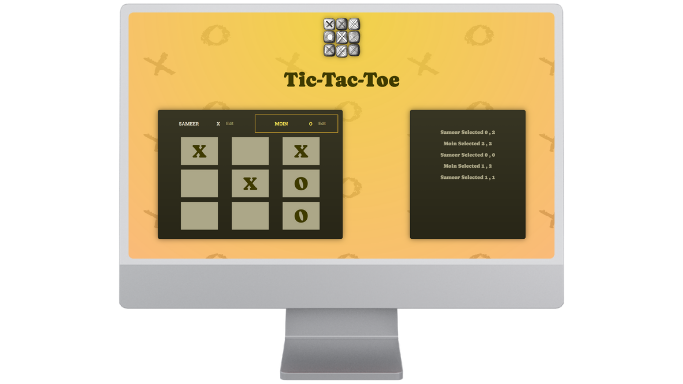
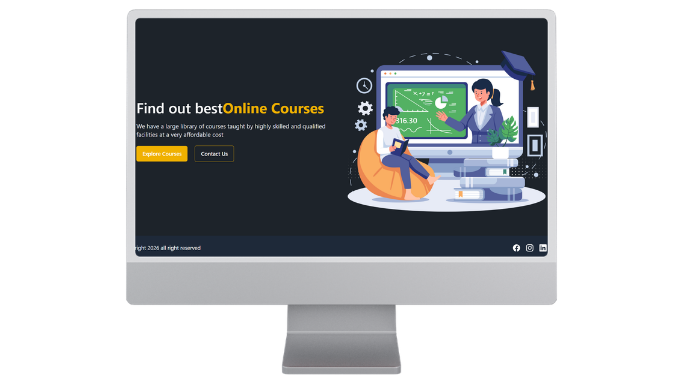
updated portfolio

diff --git a/portfolio/src/components/Projects.jsx b/portfolio/src/components/Projects.jsx
@@ -1,6 +1,7 @@
 import projectOne from "../assets/project-one.png";
 import projectTwo from "../assets/project-two.png";
 import projectThree from "../assets/project-three.png";
+import projectFour from "../assets/project-four.png";
 import { FaExternalLinkAlt } from "react-icons/fa";
 
 import "../styles/Projects.css";
@@ -15,6 +16,34 @@ export default function Projects() {
         <div className="project-card first-project">
           <img src={projectOne} alt="" />
           <span className="project-description first">
+            <h3 className="project-title">Learning Management System</h3>
+            <p>
+              Learning Management System (LMS) is a full‑stack web app to simplify online learning. It features secure authentication, password change, profile updating and password reset, Addition and deletion of courses and lectures, uses charts to show payment statistics and number of students registered and enrolled, student subscription, subscription cancellation etc .
+            </p>
+            <div className="project-links">
+              <a
+                href="https://github.com/IsamirMalik/Projects/tree/main/lms-frontend"
+                target="_blank"
+              >
+                GitHub
+                <span className="link">
+                  <FaExternalLinkAlt />
+                </span>
+              </a>
+              <a
+                href="https://lms-eight-virid-95.vercel.app/"
+                target="_blank"
+              >
+                Let's Learn
+                <span className="link">
+                  <FaExternalLinkAlt />
+                </span>
+              </a>
+            </div>
+          </span>
+        </div>
+        <div className="project-card second-project">
+          <span className="project-description second">
             <h3 className="project-title">Tic-Tac-Toe</h3>
             <p>
               The Tic-Tac-Toe is a modern, interactive web-based implementation
@@ -46,9 +75,11 @@ export default function Projects() {
               </a>
             </div>
           </span>
+          <img src={projectTwo} alt="" />
         </div>
-        <div className="project-card second-project">
-          <span className="project-description second">
+        <div className="project-card third-project">
+          <img src={projectThree} alt="" />
+          <span className="project-description third">
             <h3 className="project-title">Expense Tracker</h3>
             <p>
               The Expense Tracker is a simple yet powerful web application
@@ -79,39 +110,7 @@ export default function Projects() {
                 </span>
               </a>
             </div>
-          </span>
-          <img src={projectTwo} alt="" />
-        </div>
-        <div className="project-card third-project">
-          <img src={projectThree} alt="" />
-          <span className="project-description third">
-            <h3 className="project-title">Calculator</h3>
-            <p>
-              The Calculator is a fully functional web-based calculator
-              application designed to perform basic arithmetic operations. Built
-              with vanilla HTML, CSS, and JavaScript, this calculator provides a
-              user-friendly interface for performing mathematical calculations
-              with real-time display updates. The calculator supports addition,
-              subtraction, multiplication, division, and decimal operations with
-              a clean, intuitive design.
-            </p>
-            <div className="project-links">
-              <a
-                href="https://github.com/IsamirMalik/Projects/tree/main/calculator"
-                target="_blank"
-              >
-                GitHub
-                <span className="link">
-                  <FaExternalLinkAlt />
-                </span>
-              </a>
-              <a href=" https://projects-fbz1.vercel.app/" target="_blank">
-                Calculate
-                <span className="link">
-                  <FaExternalLinkAlt />
-                </span>
-              </a>
-            </div>
+            
           </span>
         </div>
         <div className="project-card fourth-project">
@@ -141,7 +140,7 @@ export default function Projects() {
               </a>
             </div>
           </span>
-          <img src={projectTwo} alt="" />
+          <img src={projectFour} alt="" />
         </div>
       </div>
     </section>

diff --git a/portfolio/src/components/Navbar.jsx b/portfolio/src/components/Navbar.jsx
@@ -27,7 +27,12 @@ export default function Navbar() {
             <a href="#github">GitHub</a>
           </li>
           <li className="nav-item">
-            <a href="">Resume</a>
+            <a
+              href="https://drive.google.com/file/d/1rLXIhLOP8zDVbgiDpnrlMYDVhgMs7oaM/view"
+              target="_blank"
+            >
+              Resume
+            </a>
           </li>
           <li className="nav-item">
             <a href="#contact">Contact</a>
@@ -52,12 +57,15 @@ export default function Navbar() {
             <a href="#projects">Project</a>
           </li>
           <li className="nav-item">
-            <a href="#github" >
-              GitHub
-            </a>
+            <a href="#github">GitHub</a>
           </li>
           <li className="nav-item">
-            <a href="/about">Resume</a>
+            <a
+              href="https://drive.google.com/file/d/1rLXIhLOP8zDVbgiDpnrlMYDVhgMs7oaM/view"
+              target="_blank"
+            >
+              Resume
+            </a>
           </li>
           <li className="nav-item">
             <a href="#contact">Contact</a>

diff --git a/portfolio/src/components/Skills.jsx b/portfolio/src/components/Skills.jsx
@@ -24,9 +24,17 @@ export default function Skills() {
           <Card title="TailwindCss" />
           <Card title="JavaScript" />
           <Card title="React" />
+          <Card title="React-icons" />
+          <Card title="React-Router-Dom" />
+          <Card title="React-chartjs-2" />
           <Card title="Redux" />
-          <Card title="Node.js" />
+          <Card title="Redux-Toolkit" />
+          <Card title="Nodejs" />
+          <Card title="JWT" />
+          <Card title="Mongoose" />
           <Card title="Express.js" />
+          <Card title="Razorpay" />
+          <Card title="cloudinary" />
           <Card title="MongoDB" />
         </div>
       </div>

diff --git a/portfolio/src/styles/Skills.css b/portfolio/src/styles/Skills.css
@@ -23,7 +23,7 @@
   display: flex;
   flex-wrap: wrap;
   justify-content: center;
-  gap: 20px;
+  gap: 14px;
 }
 
 .skills-heading {
@@ -43,12 +43,12 @@
 
 .skills-description {
   font-family: Saira;
-  font-size: 1.2rem;
+  font-size: 0.9rem;
   justify-content: center;
   color: #fff;
   box-shadow: 0 2px 4px rgba(24, 22, 22, 0.3);
   padding: 1rem;
-  margin-top: 2rem;
+  margin-top: 1.8rem;
   border-radius: 10px;
   margin: 1rem 1rem;
   position: relative;
@@ -93,7 +93,7 @@
 
 @media screen and (max-width: 1197px) {
   .skills-description {
-    font-size: 1rem;
+    font-size: 0.7rem;
   }
   .skills-container {
     gap: 10px;

diff --git a/portfolio/src/styles/Card.css b/portfolio/src/styles/Card.css
@@ -1,9 +1,9 @@
 .card {
   font-family: Saira;
-  font-size: 1.2rem;
+  font-size: 1rem;
   align-items: center;
-  padding: 1rem;
-  margin-top: 1rem;
+  padding: 0.5rem;
+  margin-top: 0.8rem;
   background-color: #fbc042;
   box-shadow: 0 2px 4px rgba(24, 22, 22, 0.3);
   border-radius: 10px;
